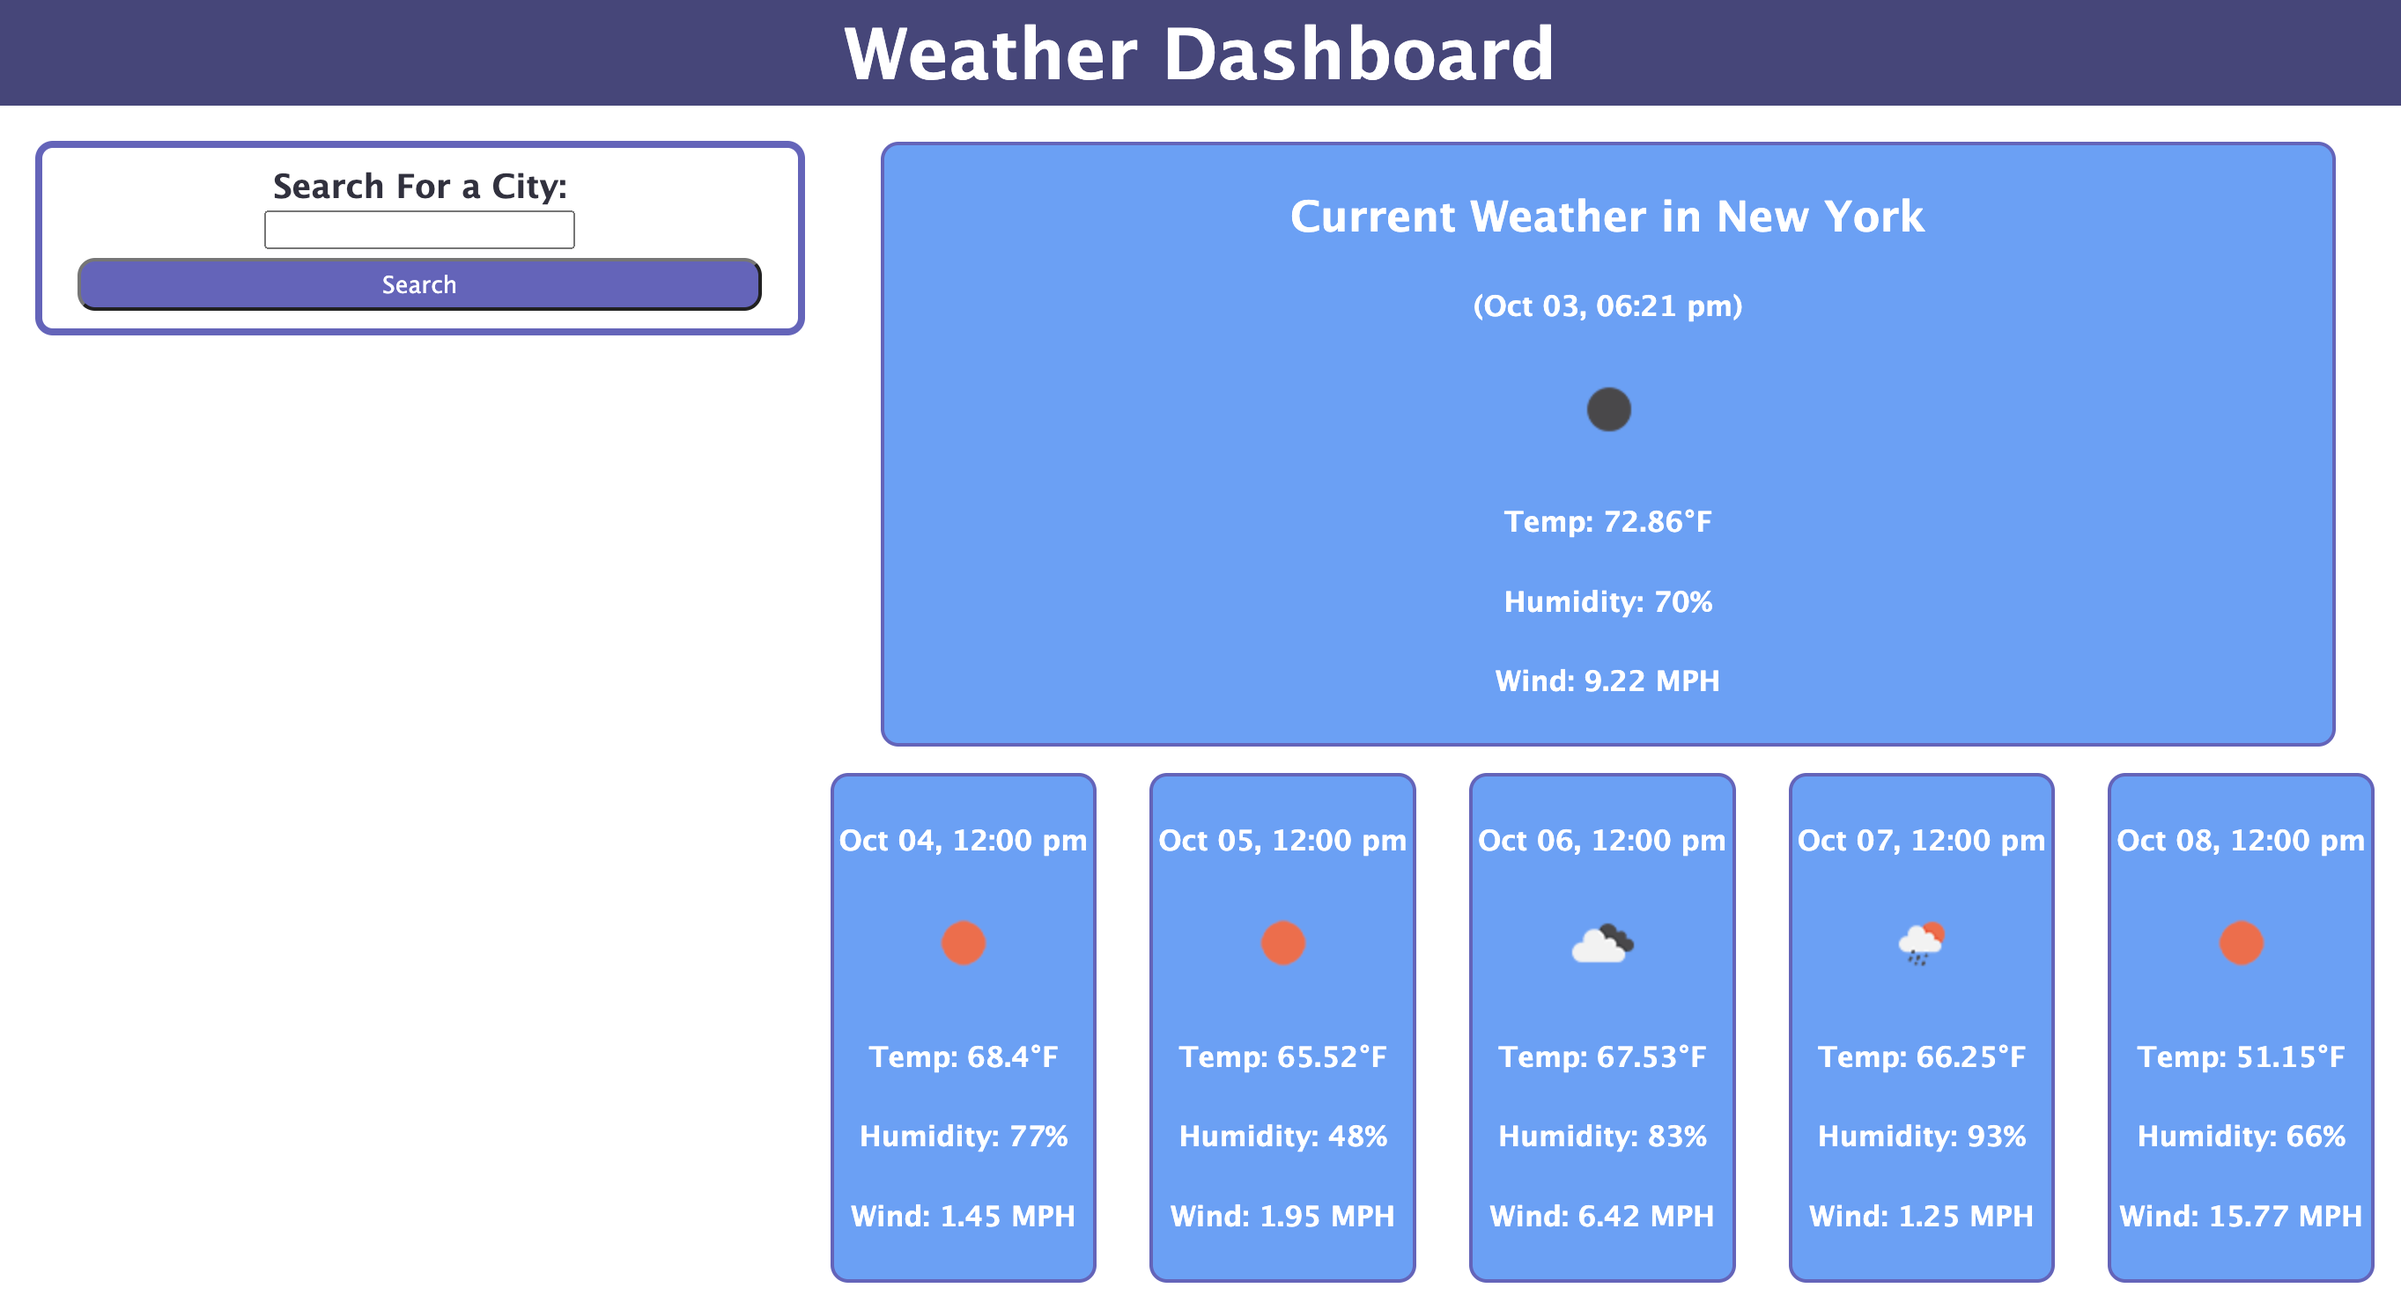
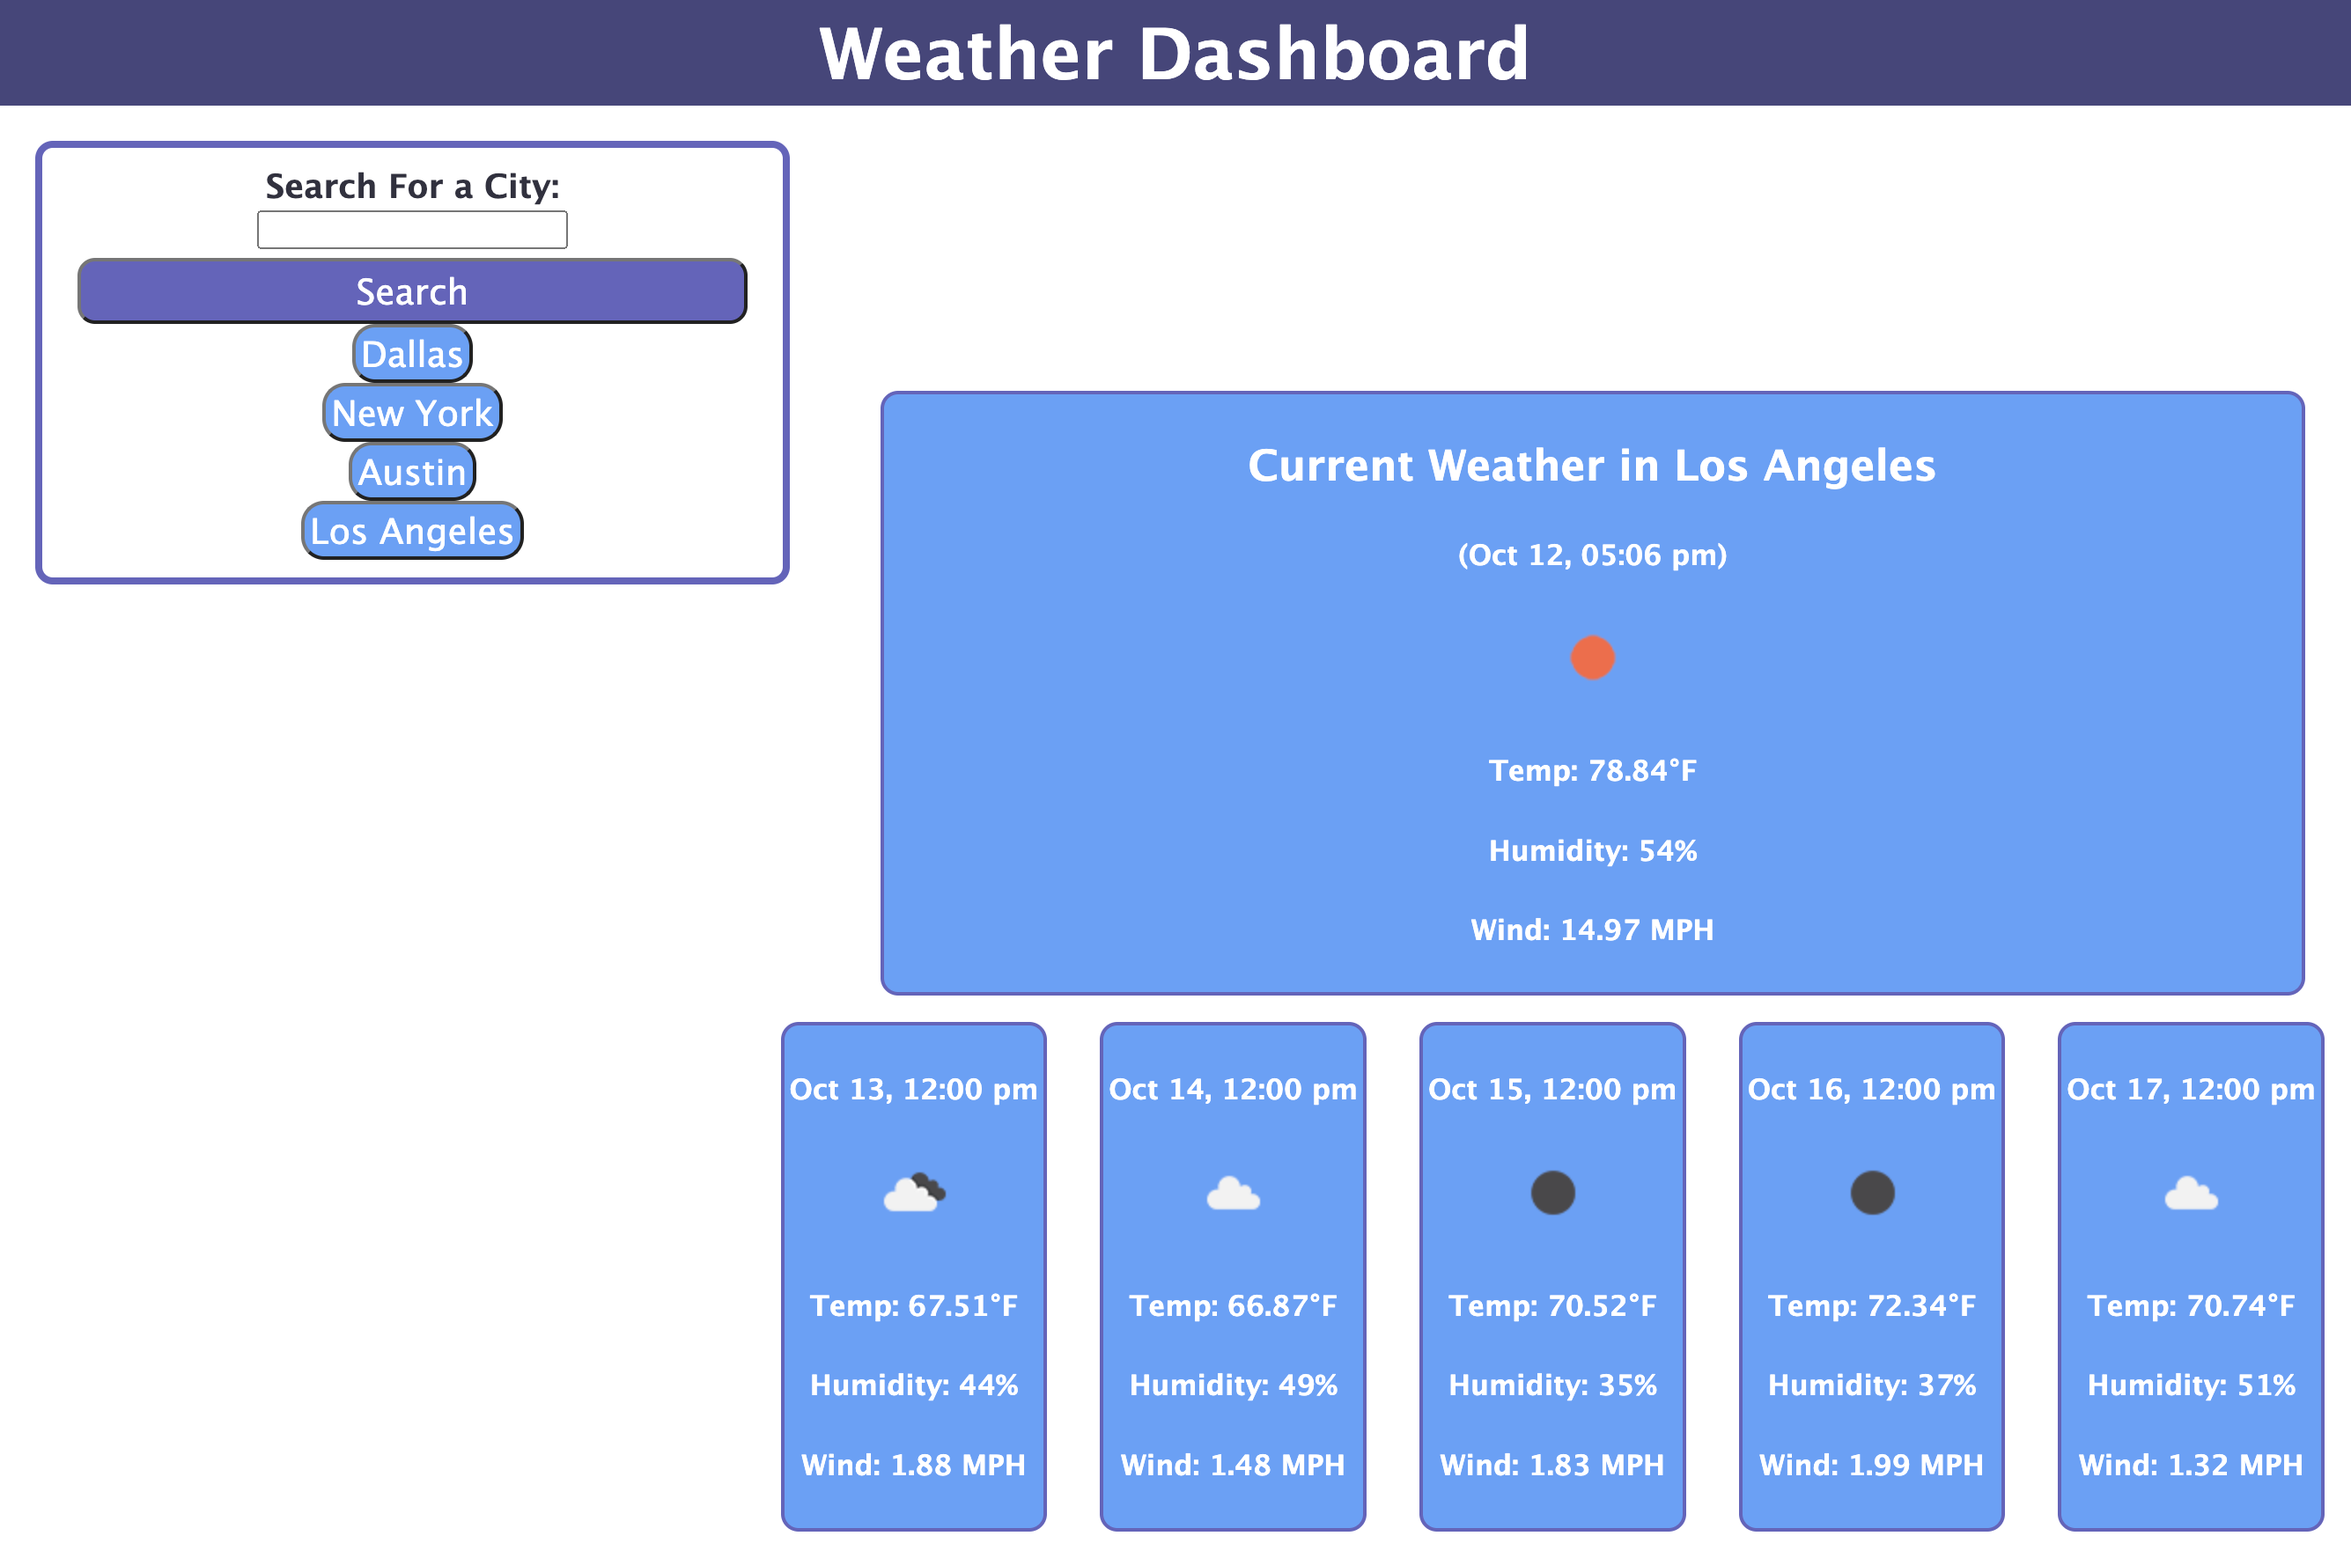
added css styles to buttons and updated README screenshot

Changed region(s): [[0.0, 0.0, 1.0, 0.9892], [0.0, 0.3401, 0.0311, 0.371]]

diff --git a/assets/css/style.css b/assets/css/style.css
@@ -95,3 +95,14 @@ margin-left: 20px;
     display: flex;
 float: right;
 }
+
+button {
+    display: block;
+    text-align: center;
+    background-color: rgb(108, 160, 244);
+    border-radius: 13px;
+    font-size: 20px;
+    color: white;
+    padding: 3px;
+    margin: 0 auto;
+}
